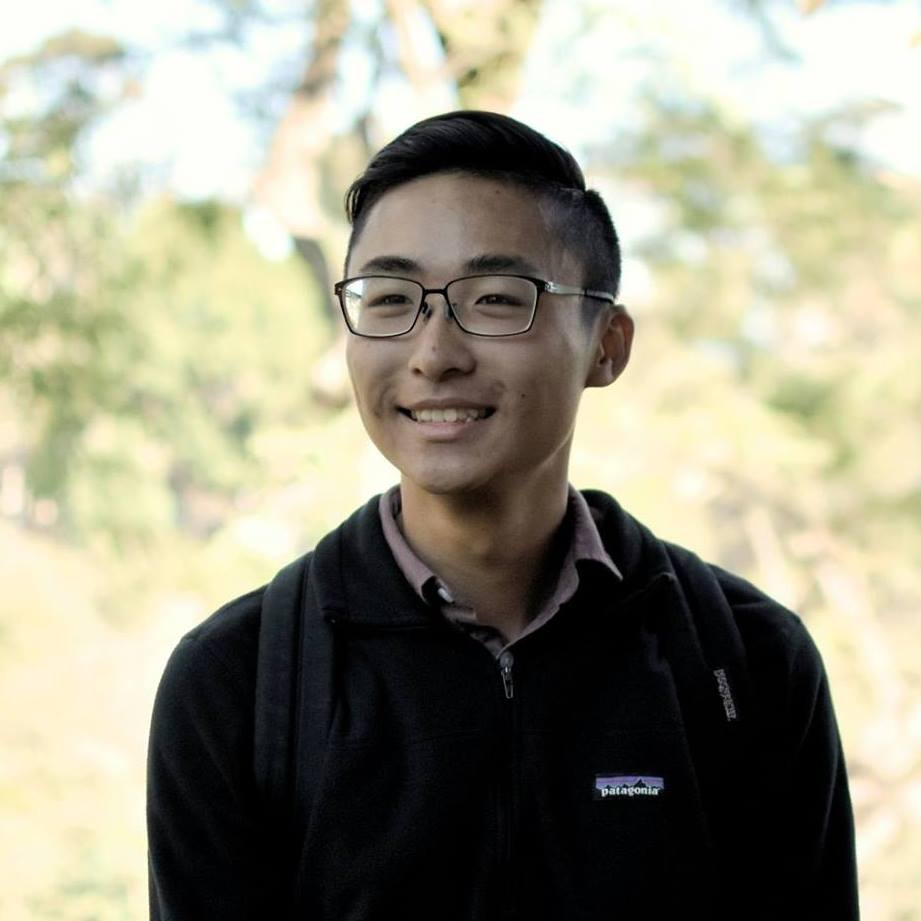
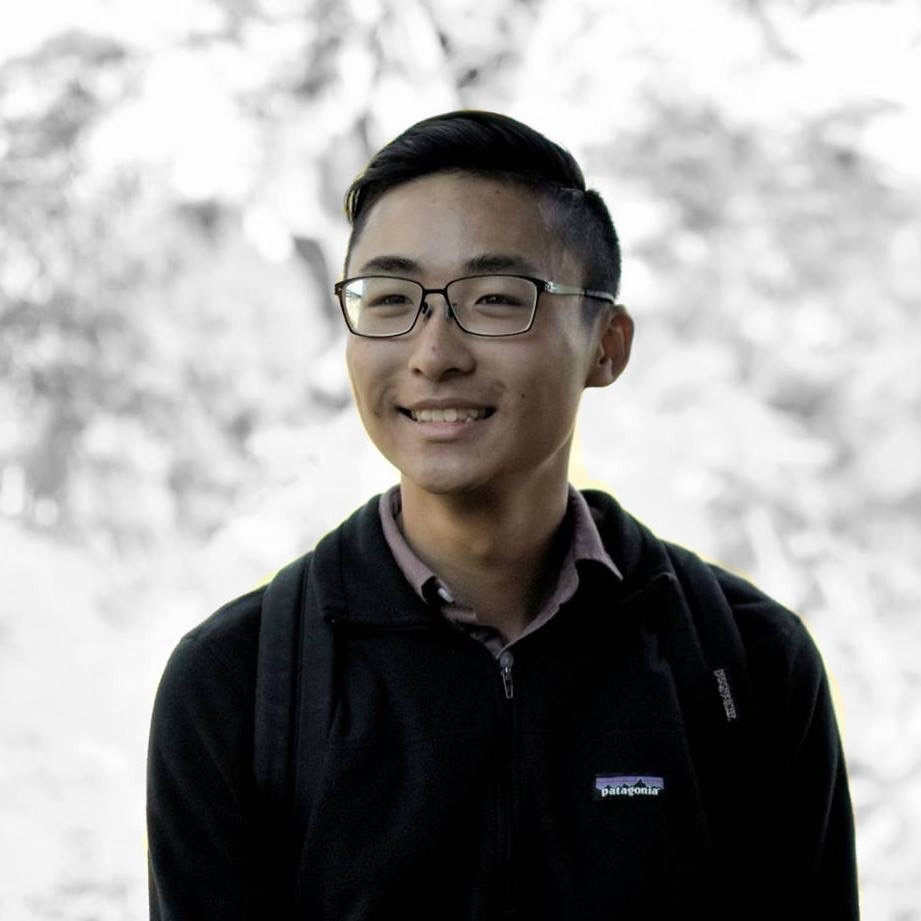
small changes abt

diff --git a/src/components/AboutMe.js b/src/components/AboutMe.js
@@ -1,5 +1,5 @@
 import React, {Component} from 'react';
-import pfp from "../images/pfp2.jpg"
+import pfp from "../images/pfp.jpg"
 import Button from "react-bootstrap/Button"
 import {FaDownload} from 'react-icons/fa';
 
@@ -21,9 +21,9 @@ export default class AboutMe extends Component {
                             </p>
 
                             <p>In the past, I have worked at Lacework, a cloud security startup
-                                based in Mountain View CA, and American Express, in New York City. Next summer, I will be working
+                                based in Mountain View, California, and American Express, in New York City. Next summer, I will be working
                                 at Microsoft at their headquarters in Redmond, Washington.
-                                I have created/used many APIs, worked with different database systems, and developed
+                                I have experience creating/using many APIs, interacting with different database systems, and developing
                                 friendly user interfaces; I am familiar with many tools/frameworks such as React, MySQL, and Splunk.
                             </p>
                             <p>In my free time, I enjoy learning
